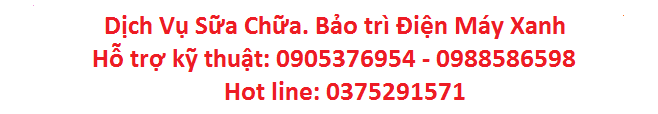
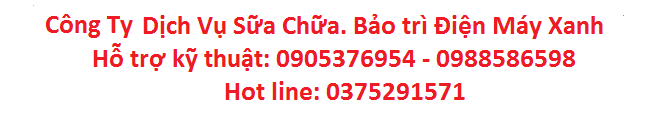
update

Changed region(s): [[0.0608, 0.1316, 0.9422, 0.3421]]

diff --git a/index.html b/index.html
@@ -152,8 +152,7 @@ Hỗ trợ kỹ thuật 090.537.6954 - 098.858.6598</p>
         	<div class="content_ft" id="content_ft1">
                 <div id="diachi_ft">
                     <section id="text-5" class="widget widget_text">			<div class="textwidget"><p style="text-align: center;">
-<span style="font-size: 18px;font-weight:bold;text-transform: uppercase;color:red;">Công Ty TNHH Dịch vụ Sửa Chữa<br />
-  Điện máy xanh mst 0314424627<br />
+<span style="font-size: 18px;font-weight:bold;text-transform: uppercase;color:red;">Công TY DỊCH VỤ SỮA CHỮA, BẢO TRÌ ĐIỆN MẤY XANH
 trụ sở chính  92 Đường Số 12 Phường Bình Hưng Hòa Q Bình Tân. Hồ Chí Minh </span><br />
 Điện thoại: 0375291571-Hỗ trợ kỷ thuật 0905376954 - 0988586598<br />
 Email: dichvusuchuadienmayxanh@yahoo.com
